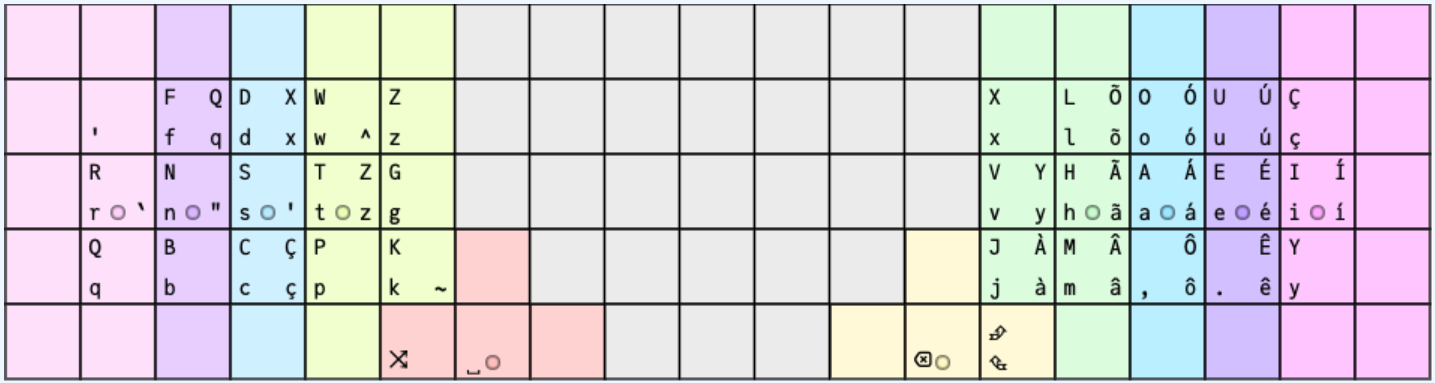
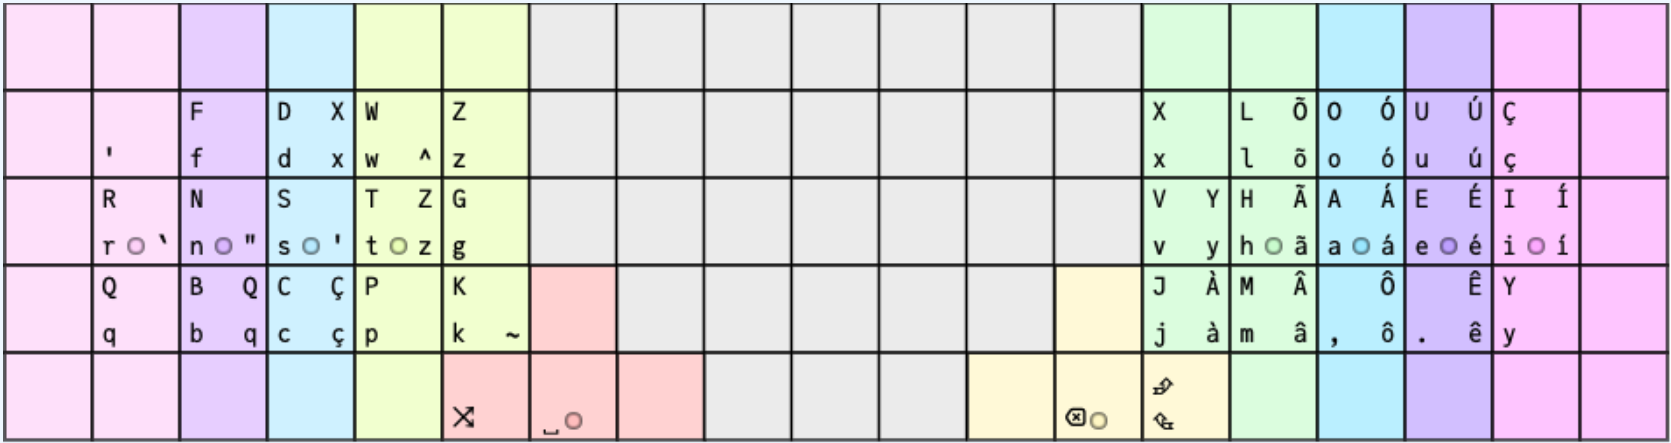
improve position of Q

Changed region(s): [[0.0, 0.0, 1.0, 1.0]]

diff --git a/src/qmk/users/rafaelromao/definitions/keymap_blocks.h b/src/qmk/users/rafaelromao/definitions/keymap_blocks.h
@@ -25,9 +25,9 @@
 #define ___________________NUMPAD_R3_________           TG_NUM  , AL_1    , KC_2    , KC_3    
 #define ____NUMPAD_R4____                               RAI_BSP , MED_0
 
-#define           _________ACCENT_L1_________                     KC_Q    , KC_X    , KC_CIRC 
+#define           _________ACCENT_L1_________                     XXXXXXX , KC_X    , KC_CIRC 
 #define ___________________ACCENT_L2___________________ KC_GRV  , KC_DQUO , KC_QUOT , KC_Z    , XXXXXXX
-#define           _________ACCENT_L3___________________           XXXXXXX , MC_SQ_C , XXXXXXX , KC_TILD
+#define           _________ACCENT_L3___________________           KC_Q    , MC_SQ_C , XXXXXXX , KC_TILD
 #define                               ____ACCENT_L4____                               _______ , KC_SPC
 
 #define           _________ACCENT_R1_________                     MC_TL_O , MC_SQ_O , MC_SQ_U 
